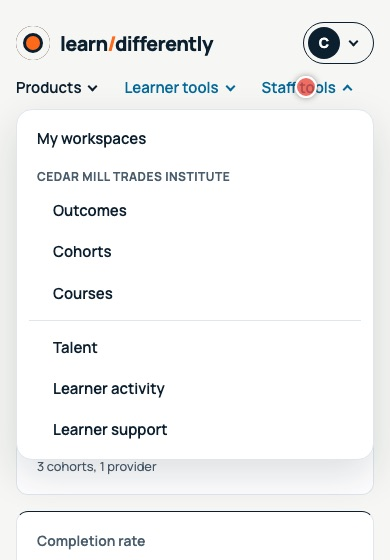
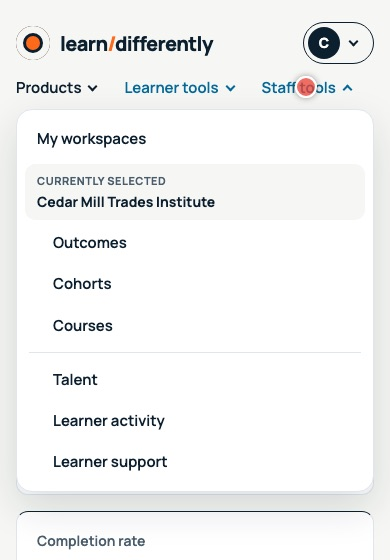
feat: Staff tools shows the current workspace as "Currently selected"
Refs #72

diff --git a/apps/learn/src/dashboard/navModel.ts b/apps/learn/src/dashboard/navModel.ts
@@ -8,7 +8,7 @@ export interface NavLink {
   action?: 'security'
 }
 /** A dropdown row: a link, a section heading, or a line break. */
-export type NavItem = NavLink | { heading: string } | { divider: true }
+export type NavItem = NavLink | { heading: string; caption?: string } | { divider: true }
 
 export interface NavModel {
   /** Top bar: the "Learner tools" menu. Everyone signed in has it: My learning is where a code is entered to join a cohort. */
@@ -37,7 +37,7 @@ function staffItems(i: NavInput): NavItem[] {
   const { current, role, href } = i
   const items: NavItem[] = [{ label: 'My workspaces', href: i.workspacesHref }]
   if (!current) return items
-  items.push({ heading: current.name })
+  items.push({ heading: current.name, caption: 'Currently selected' })
   if (current.kind === 'agency') {
     items.push({ label: 'Outcomes dashboard', href: href('/lms/dashboard') })
     if (current.subdomain === 'delaware') {

diff --git a/apps/learn/src/components/nav-dropdown.css b/apps/learn/src/components/nav-dropdown.css
@@ -64,6 +64,27 @@
   letter-spacing: 0.04em;
   text-transform: uppercase;
 }
+.nd-current {
+  display: flex;
+  flex-direction: column;
+  gap: 2px;
+  margin: 4px 0 2px;
+  padding: 8px 12px;
+  border-radius: 10px;
+  background: var(--paper, #f6f7f4);
+  color: var(--ink, #0b1f2e);
+  font-size: 14px;
+  font-weight: 700;
+  letter-spacing: 0;
+  text-transform: none;
+}
+.nd-current-label {
+  color: var(--muted, #4a5d6c);
+  font-size: 11px;
+  font-weight: 700;
+  letter-spacing: 0.05em;
+  text-transform: uppercase;
+}
 .nd-divider {
   height: 1px;
   margin: 6px 4px;

diff --git a/apps/learn/src/components/NavDropdown.tsx b/apps/learn/src/components/NavDropdown.tsx
@@ -42,7 +42,8 @@ export function NavDropdown({ label, items }: { label: string; items: NavItem[] 
             'divider' in item ? (
               <li key={`d${n}`} className="nd-divider" role="separator" />
             ) : 'heading' in item ? (
-              <li key={`h${n}`} className="nd-heading">
+              <li key={`h${n}`} className={item.caption ? 'nd-heading nd-current' : 'nd-heading'}>
+                {item.caption && <span className="nd-current-label">{item.caption}</span>}
                 {item.heading}
               </li>
             ) : (

diff --git a/apps/learn/src/dashboard/navModel.test.ts b/apps/learn/src/dashboard/navModel.test.ts
@@ -64,6 +64,11 @@ describe('buildNav', () => {
     expect(l?.at(-1)?.action).toBe('security')
   })
 
+  it('marks the current workspace as currently selected', () => {
+    const h = buildNav(input({})).staff?.find((i) => 'heading' in i)
+    expect(h).toEqual({ heading: 'Cedar Mill', caption: 'Currently selected' })
+  })
+
   it('a provider-admin of a provider gets outcomes, cohorts, courses, then talent, activity and support', () => {
     expect(labels(buildNav(input({})).staff)).toEqual([
       'My workspaces',
